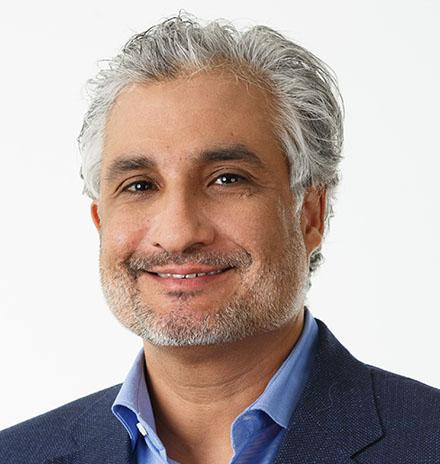
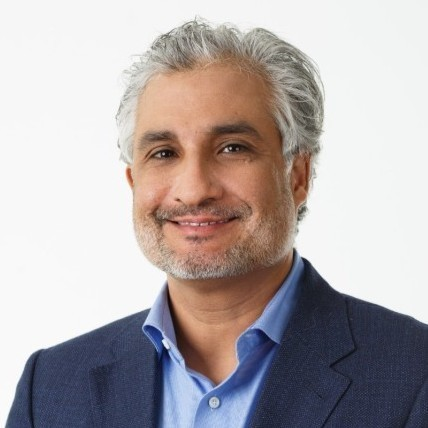
Update team photos and styling

diff --git a/app/team/page.tsx b/app/team/page.tsx
@@ -29,15 +29,17 @@ export default function TeamPage() {
       <div className="mt-8 grid grid-cols-1 sm:grid-cols-2 lg:grid-cols-3 gap-6">
         {team.map((m) => (
           <div key={m.name} className="rounded-lg border border-neutral-200/70 p-6">
-            <div className="h-40 w-full rounded-md bg-neutral-100 overflow-hidden relative">
-              {m.image && (
-                <Image
-                  src={m.image}
-                  alt={m.name}
-                  fill
-                  className="object-cover"
-                />
-              )}
+            <div className="flex justify-center">
+              <div className="w-40 h-40 rounded-full bg-neutral-100 overflow-hidden relative">
+                {m.image && (
+                  <Image
+                    src={m.image}
+                    alt={m.name}
+                    fill
+                    className="object-contain"
+                  />
+                )}
+              </div>
             </div>
             <h3 className="mt-4 font-medium">{m.name}</h3>
             <div className="text-sm text-neutral-600">{m.role}</div>
